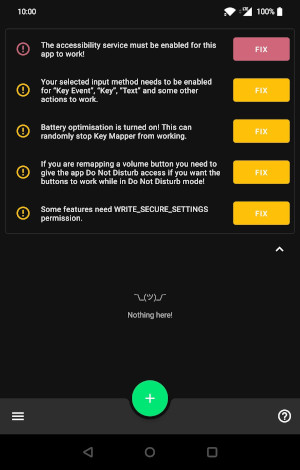
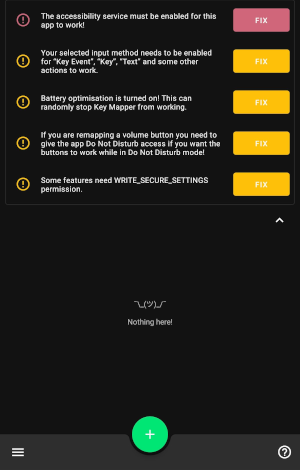
Deployed 588ed460 with MkDocs version: 1.1.2

diff --git a/quick-start/index.html b/quick-start/index.html
@@ -220,6 +220,26 @@
     Creating a key map
   </a>
   
+    <nav class="md-nav" aria-label="Creating a key map">
+      <ul class="md-nav__list">
+        
+          <li class="md-nav__item">
+  <a href="#setting-the-triggers-and-actions" class="md-nav__link">
+    Setting the trigger(s) and action(s)
+  </a>
+  
+</li>
+        
+          <li class="md-nav__item">
+  <a href="#customising-the-triggers-and-actions" class="md-nav__link">
+    Customising the trigger(s) and action(s)
+  </a>
+  
+</li>
+        
+      </ul>
+    </nav>
+  
 </li>
       
     </ul>
@@ -396,6 +416,26 @@
     Creating a key map
   </a>
   
+    <nav class="md-nav" aria-label="Creating a key map">
+      <ul class="md-nav__list">
+        
+          <li class="md-nav__item">
+  <a href="#setting-the-triggers-and-actions" class="md-nav__link">
+    Setting the trigger(s) and action(s)
+  </a>
+  
+</li>
+        
+          <li class="md-nav__item">
+  <a href="#customising-the-triggers-and-actions" class="md-nav__link">
+    Customising the trigger(s) and action(s)
+  </a>
+  
+</li>
+        
+      </ul>
+    </nav>
+  
 </li>
       
     </ul>
@@ -421,31 +461,32 @@
 For specific troubleshooting, consult the FAQ.</p>
 <p>Where screenshots are necessary, this guide uses two devices to demonstrate.</p>
 <ol>
-<li>OnePlus 7 Pro, Android 11, Dark Theme, high resolution/dpi screen/1440p 16:9</li>
-<li>Samsung J3, Android 8, Light Theme, typical resolution/dpi screen/720p 16:9</li>
+<li>OnePlus 7 Pro, Android 10, Dark theme, 1440p, tiny font size</li>
+<li>Samsung J3 6, Android 5, Light theme, 720p, medium font size</li>
 </ol>
-<p>App interface pictured: <code>keymapper-2.3.0-alpha-ci.709</code></p>
+<p>App interface pictured: <code>keymapper-2.3.0-alpha-ci.715</code></p>
 <p>The guide is updated to match current stable release UI. <a href="https://github.com/sds100/KeyMapper/issues/new">Report inaccuracies.</a></p>
 <h2 id="first-time-setup">First time setup<a class="headerlink" href="#first-time-setup" title="Permanent link">&para;</a></h2>
 <p>When you open Key Mapper, you will be presented with this screen.
-This screen is referred to as the <em>Key Mapper home screen</em>.</p>
-<p><img alt="" src="../images/hg-home-empty.png" /></p>
+This screen is referred to as the Key Mapper home screen.</p>
+<p><img alt="" src="../images/hg-home-empty.png" /> <img alt="" src="../images/hg-home-empty-light.png" /></p>
 <p>Tapping the FIX button next to the accessibility service prompt will allow you to grant Key Mapper permission to run its accessibility service. You must do this for the app to work at all.</p>
 <p><img alt="" src="../images/hg-warn-service.png" /></p>
 <p>You can then tap Key Mapper in your list of available services. There may be many others on this screen and your interface may be slightly different. If nothing happens when you tap FIX, or if you can't enable the service, see <a href="#">this page</a> or ask for help in the <a href="http://keymapper.club">Discord server</a>.</p>
-<p><img alt="" src="../images/hg-settings-services.png" /></p>
+<p><img alt="" src="../images/hg-settings-services.png" /> <img alt="" src="../images/hg-settings-services-light.png" /></p>
 <p>Tapping the FIX button next to the input method prompt will allow you to enable a Key Mapper compatible keyboard. If you want to perform actions like pressing keyboard keys or entering text you must enable this.</p>
 <p><img alt="" src="../images/hg-warn-input-method.png" /></p>
 <p>If you have only installed the Key Mapper app, your list of available keyboards will contain "Key Mapper Basic Input Method" only. If you aim to use a physical keyboard (not on-screen) when using Key Mapper, this will be suitable for you.</p>
 <p>If you want an on-screen keyboard to be available while using Key Mapper, you need to install "Key Mapper GUI Keyboard". It is available on the <a href="http://gui.keymapper.club">Google Play Store</a>, <a href="https://www.f-droid.org/en/packages/io.github.sds100.keymapper.inputmethod.latin/">F-Droid</a> and <a href="https://github.com/sds100/KeyMapperKeyboard/releases">GitHub</a>.</p>
-<p><img alt="" src="../images/hg-settings-input-method.png" /></p>
+<p><img alt="" src="../images/hg-settings-input-method.png" /> <img alt="" src="../images/hg-settings-input-method-light.png" /></p>
 <p>If you are using a Huawei or Xiaomi branded device, a device with 2GB of RAM or less, or intend to use the app while playing a mobile game, it is especially important to follow the next step.</p>
 <p>Tapping the FIX button next to the battery optimisation prompt will allow you to turn off features of your device that may prevent Key Mapper's essential services from running in the background. This is usually the source of the common 'Key Mapper randomly stops working' issue.</p>
+<p>Older devices (such as my Android 5 device pictured here) do not have this prompt in Key Mapper. However, I was still able to find the setting in my device settings app. Read more below for details.</p>
 <p><img alt="" src="../images/hg-warn-battery-optimisation.png" /></p>
-<p>The screen that opens after tapping FIX may vary depending on your device. In my case, to disable optimisation I found the app(s) in the list, tapped them to open their settings, and chose 'Don't optimise'.</p>
+<p>The screen that opens after tapping FIX may vary depending on your device. In my case, to disable optimisation I found the app(s) in the list, tapped them to open their settings, and chose 'Don't optimise' and on the second device, 'Disabled'.</p>
 <p>There is an excellent guide at <a href="http://dontkillmyapp.com">dontkillmyapp.com</a> that explains how to disable battery and/or memory optimisation for your specific device. If Key Mapper randomly stops working even after you complete these steps, ask for help in <a href="http://keymapper.club">the Discord server.</a></p>
-<p><img alt="" src="../images/hg-settings-battery-optimisation.png" /></p>
-<p>If you want to remap volume buttons and use them when Do Not Disturb is enabled, you should grant Key Mapper permission to do so.</p>
+<p><img alt="" src="../images/hg-settings-battery-optimisation.png" /> <img alt="" src="../images/hg-settings-battery-optimisation-light.png" /></p>
+<p>If you want to remap volume buttons and use them when Do Not Disturb is enabled, you should grant Key Mapper permission to do so. If you have an older device, you may not have this as an option.</p>
 <p><img alt="" src="../images/hg-warn-dnd.png" /></p>
 <p>Tapping FIX will allow you to grant the permission. Find Key Mapper in the list and tap it in order to choose 'Allowed'.</p>
 <p><img alt="" src="../images/hg-settings-dnd.png" /></p>
@@ -455,10 +496,76 @@ This screen is referred to as the <em>Key Mapper home screen</em>.</p>
 <p>A key map is an association between a user input (such as pushing a key or button) and a response from the device (sending information about what key was pressed and for how long).</p>
 <p>In Key Mapper, 'user inputs' that are recognised by the app are called 'triggers'. The responses from your device that were due to a trigger being pressed are called 'actions'.</p>
 <p>Key Mapper lets you assign actions to triggers that may be different from their default use. A 'volume-up' trigger normally increases the volume when pressed, but this app can change that to something else.</p>
+<h3 id="setting-the-triggers-and-actions">Setting the trigger(s) and action(s)<a class="headerlink" href="#setting-the-triggers-and-actions" title="Permanent link">&para;</a></h3>
 <p>To create your first key map, tap the + icon at the bottom of the Key Mapper home screen. You will see one of the two menus below.</p>
-<p><img alt="" src="../images/hg-keymap-0.png" /></p>
-<p>In either case, the first step is to record a trigger. Tap the red RECORD TRIGGER button and then push the button that you want to change the function of. In this guide I will demonstrate with Volume Down.</p>
-<p><img alt="" src="../images/hg-keymap-1.png" /></p>
+<p><img alt="" src="../images/hg-keymap-0.png" /> <img alt="" src="../images/hg-keymap-0-light.png" /></p>
+<p>In either case, the first step is to record a trigger. Tap the red RECORD TRIGGER button and then press the physical button that you want to change the function of. In this guide I will demonstrate with Volume Down.</p>
+<p>Key Mapper can also create a key map with multiple triggers. If you want to use more than one trigger for one key map, you can press the buttons in the order you will press them to execute the key map. For example, if you wanted to map 'Ctrl' + 'H' to show the device home menu, you should press 'Ctrl' and then 'H'.</p>
+<p><img alt="" src="../images/hg-keymap-1.png" /> <img alt="" src="../images/hg-keymap-1-light.png" /></p>
+<p>Next, it's time to choose an action. If you have a high-resolution display, you will see the ADD ACTION button at the bottom of the screen (pictured left). Otherwise, tap the ACTIONS tab at the top of the screen (pictured right).</p>
+<p><img alt="" src="../images/hg-keymap-1.png" /> <img alt="" src="../images/hg-keymap-2-light.png" /></p>
+<p>Tap the ADD ACTION button at the bottom of this screen. The action selection screen will open. Here you can choose from a wide variety of actions. Swipe left and right to change category, and scroll up and down the list until you find the action you want to add. Below is a table of the different kinds of actions you can choose from in each tab.</p>
+<table>
+<thead>
+<tr>
+<th>Tab</th>
+<th>Description</th>
+</tr>
+</thead>
+<tbody>
+<tr>
+<td>App</td>
+<td>Choose an app to open when you press your trigger.</td>
+</tr>
+<tr>
+<td>App shortcut</td>
+<td>Choose an app operation (such as sharing location, checking local traffic, sending a text message)</td>
+</tr>
+<tr>
+<td>Keycode</td>
+<td>Emulate a keyboard key press (such as an alphanumeric character or multimedia key)</td>
+</tr>
+<tr>
+<td>System</td>
+<td>Choose a system operation (such as toggling Bluetooth, opening the home menu, toggling flashlight)</td>
+</tr>
+<tr>
+<td>Key</td>
+<td>An alternative way to choose a key press action, by pressing the key that you want to map to.</td>
+</tr>
+<tr>
+<td>Tap screen</td>
+<td>Emulate a screen tap at a specific location on your screen.</td>
+</tr>
+<tr>
+<td>Key event</td>
+<td>Emulate a key press from a specifc connected device.</td>
+</tr>
+<tr>
+<td>Text</td>
+<td>Emulate typing a string.</td>
+</tr>
+<tr>
+<td>Intent</td>
+<td>See <a href="user-guide/actions/#intent">this page.</a></td>
+</tr>
+<tr>
+<td>Phone call</td>
+<td>Call a telephone number. Network and carrier rates will apply.</td>
+</tr>
+<tr>
+<td>Unsupported actions</td>
+<td>A list of actions that your device won't allow you to use. Android frequently changes what users are allowed to do between versions.</td>
+</tr>
+</tbody>
+</table>
+<p>For this simple demonstration I will choose KEYCODE_E from the Keycode tab. This action will emulate pressing an E key on a keyboard.</p>
+<p><img alt="" src="../images/hg-keymap-3.png" /> <img alt="" src="../images/hg-keymap-3-light.png" /></p>
+<p>Key Mapper can also create a key map with multiple actions. If you want to add more actions to execute in series you can do so by tapping ADD ACTION again and choosing the next action in the chain. In the next section you can specify a delay between those actions if you wish.</p>
+<h3 id="customising-the-triggers-and-actions">Customising the trigger(s) and action(s)<a class="headerlink" href="#customising-the-triggers-and-actions" title="Permanent link">&para;</a></h3>
+<p>In the next section, I will explain in more detail how to customise your triggers and actions to be more in line with what you want. Most people will want to do at least some customisation.</p>
+<p>Starting with the triggers, tap the 3 dot menu to the right of the trigger's name to bring up the following menu.</p>
+<p><img alt="" src="../images/hg-trigger-settings.png" /> <img alt="" src="../images/hg-trigger-settings-light.png" /> </p>
                 
               
               

diff --git a/user-guide/actions/index.html b/user-guide/actions/index.html
@@ -63,6 +63,11 @@
     <label class="md-overlay" for="__drawer"></label>
     <div data-md-component="skip">
       
+        
+        <a href="#intent" class="md-skip">
+          Skip to content
+        </a>
+      
     </div>
     <div data-md-component="announce">
       
@@ -248,9 +253,36 @@
     <input class="md-nav__toggle md-toggle" data-md-toggle="toc" type="checkbox" id="__toc">
     
     
+      <label class="md-nav__link md-nav__link--active" for="__toc">
+        Actions
+        <span class="md-nav__icon md-icon"></span>
+      </label>
+    
     <a href="./" class="md-nav__link md-nav__link--active">
       Actions
     </a>
+    
+      
+<nav class="md-nav md-nav--secondary" aria-label="Table of contents">
+  
+  
+  
+    <label class="md-nav__title" for="__toc">
+      <span class="md-nav__icon md-icon"></span>
+      Table of contents
+    </label>
+    <ul class="md-nav__list" data-md-scrollfix>
+      
+        <li class="md-nav__item">
+  <a href="#intent" class="md-nav__link">
+    Intent
+  </a>
+  
+</li>
+      
+    </ul>
+  
+</nav>
     
   </li>
 
@@ -332,6 +364,35 @@
               </div>
             
             
+              
+              <div class="md-sidebar md-sidebar--secondary" data-md-component="toc" >
+                <div class="md-sidebar__scrollwrap">
+                  <div class="md-sidebar__inner">
+                    
+<nav class="md-nav md-nav--secondary" aria-label="Table of contents">
+  
+  
+  
+    <label class="md-nav__title" for="__toc">
+      <span class="md-nav__icon md-icon"></span>
+      Table of contents
+    </label>
+    <ul class="md-nav__list" data-md-scrollfix>
+      
+        <li class="md-nav__item">
+  <a href="#intent" class="md-nav__link">
+    Intent
+  </a>
+  
+</li>
+      
+    </ul>
+  
+</nav>
+                  </div>
+                </div>
+              </div>
+            
           
           <div class="md-content">
             <article class="md-content__inner md-typeset">
@@ -344,7 +405,7 @@
                 
                   <h1>Actions</h1>
                 
-                
+                <h2 id="intent">Intent<a class="headerlink" href="#intent" title="Permanent link">&para;</a></h2>
                 
               
               
